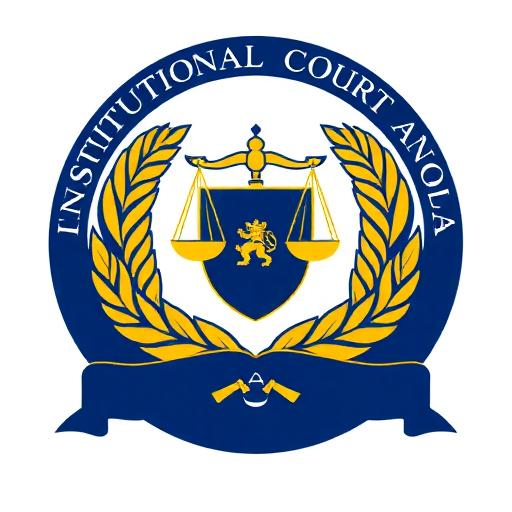
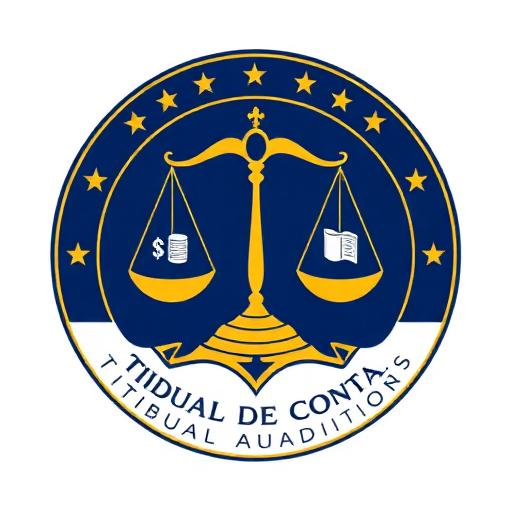
Changes

diff --git a/index.html b/index.html
@@ -3,17 +3,17 @@
   <head>
     <meta charset="UTF-8" />
     <meta name="viewport" content="width=device-width, initial-scale=1.0" />
-    <title>SGAD - Sistema de Gestão de Avaliação de Desempenho | Tribunal Constitucional</title>
-    <meta name="description" content="Sistema de Gestão de Avaliação de Desempenho do Tribunal Constitucional. Planeamento, execução e acompanhamento de ciclos de avaliação de desempenho." />
-    <meta name="author" content="Tribunal Constitucional" />
+    <title>SGAD - Sistema de Gestão de Avaliação de Desempenho | Tribunal de Contas</title>
+    <meta name="description" content="Sistema de Gestão de Avaliação de Desempenho do Tribunal de Contas. Planeamento, execução e acompanhamento de ciclos de avaliação de desempenho." />
+    <meta name="author" content="Tribunal de Contas" />
 
-    <meta property="og:title" content="SGAD - Tribunal Constitucional" />
-    <meta property="og:description" content="Sistema de Gestão de Avaliação de Desempenho do Tribunal Constitucional" />
+    <meta property="og:title" content="SGAD - Tribunal de Contas" />
+    <meta property="og:description" content="Sistema de Gestão de Avaliação de Desempenho do Tribunal de Contas" />
     <meta property="og:type" content="website" />
     <meta property="og:image" content="https://lovable.dev/opengraph-image-p98pqg.png" />
 
     <meta name="twitter:card" content="summary_large_image" />
-    <meta name="twitter:site" content="@TribunalConstitucional" />
+    <meta name="twitter:site" content="@TribunalDeContas" />
     <meta name="twitter:image" content="https://lovable.dev/opengraph-image-p98pqg.png" />
   </head>
 

diff --git a/src/components/layout/Sidebar.tsx b/src/components/layout/Sidebar.tsx
@@ -35,10 +35,10 @@ export function Sidebar() {
     <aside className="fixed left-0 top-0 z-50 flex h-screen w-64 flex-col bg-sidebar text-sidebar-foreground">
       {/* Logo */}
       <div className="flex h-16 items-center gap-3 border-b border-sidebar-border px-6">
-        <img src={tribunalEmblem} alt="Tribunal Constitucional" className="h-10 w-10" />
+        <img src={tribunalEmblem} alt="Tribunal de Contas" className="h-10 w-10" />
         <div className="flex flex-col">
           <span className="text-sm font-serif font-semibold text-sidebar-foreground">
-            Tribunal Constitucional
+            Tribunal de Contas
           </span>
           <span className="text-[10px] text-sidebar-foreground/70 uppercase tracking-wider">
             SGAD
@@ -93,7 +93,7 @@ export function Sidebar() {
       {/* Footer */}
       <div className="border-t border-sidebar-border px-6 py-4">
         <p className="text-[10px] text-sidebar-foreground/50 text-center">
-          © 2025 Tribunal Constitucional
+          © 2025 Tribunal de Contas
           <br />
           Sistema de Gestão de Avaliação de Desempenho
         </p>
